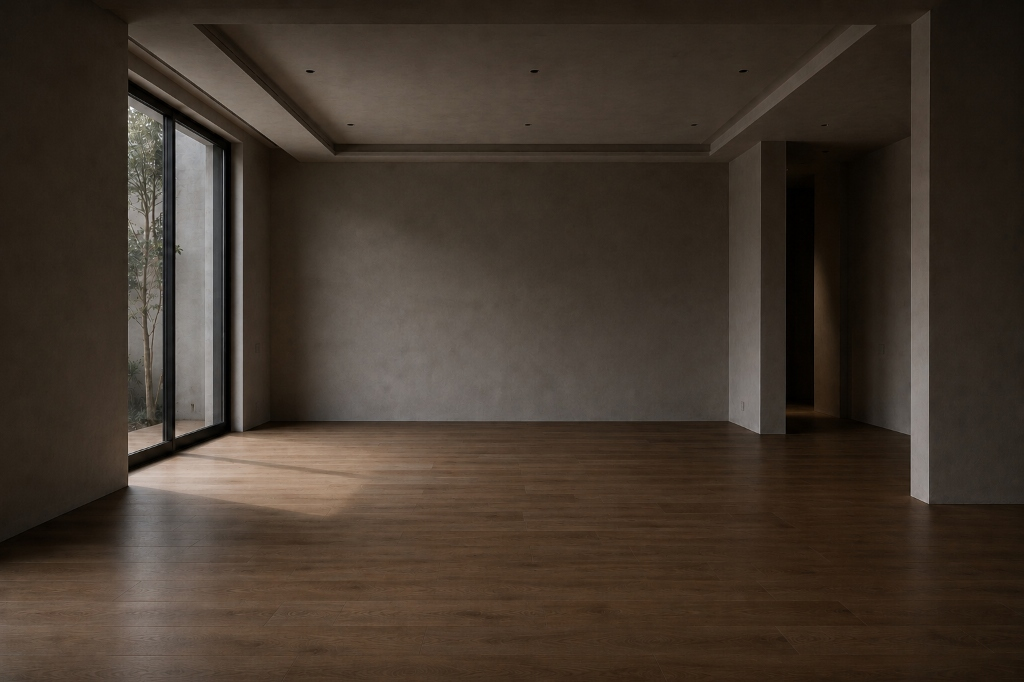
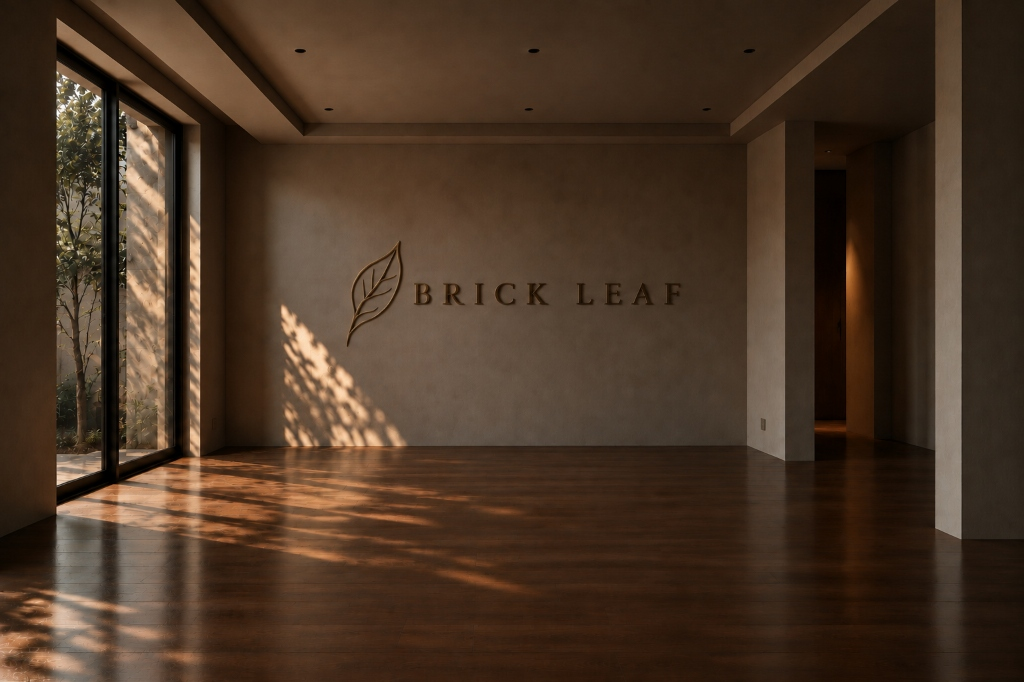
feat(hero): replace scroll animation with all 8 new high-res photorealistic stages

diff --git a/src/components/SignatureScrollHero/constants.js b/src/components/SignatureScrollHero/constants.js
@@ -1,8 +1,8 @@
 /**
  * SignatureScrollHero — Constants
  *
- * 8 complete full-room photographs.
- * The entire homepage IS this scroll transformation.
+ * 8 complete full-room photorealistic transformation stages.
+ * The entire homepage IS this scroll-driven interior transformation.
  * Zero dark gaps. Each image plate fades in over the previous and stays opaque.
  */
 
@@ -10,66 +10,66 @@ export const STAGES = [
   {
     id: 'empty-dark',
     src: '/hero/stage-1-empty-dark.jpg',
-    alt: 'Empty architectural room in dim, moody light',
+    alt: 'Empty architectural shell in moody ambient light with Brickleaf wall emblem',
     tag: '01 / CANVAS',
     title: 'Raw Architectural Shell',
-    desc: 'The room before intention — dim, cold, waiting.',
+    desc: 'The room before intention — dim, quiet, waiting.',
   },
   {
     id: 'empty-bright',
     src: '/hero/stage-2-empty-bright.jpg',
-    alt: 'Empty room with warm natural daylight revealing plaster walls',
+    alt: 'Empty room with warm natural daylight streaming through floor-to-ceiling windows',
     tag: '02 / LIGHT',
-    title: 'Natural Light Reveals',
-    desc: 'Warm daylight enters. Plaster textures emerge.',
+    title: 'Natural Light Emerges',
+    desc: 'Warm sunlight enters through expansive glass, revealing plaster texture.',
   },
   {
     id: 'rug',
     src: '/hero/stage-3-rug.jpg',
-    alt: 'Room with a hand-woven jute area rug on the oak floor',
+    alt: 'Room with a hand-woven organic jute area rug on the oak floor',
     tag: '03 / FOUNDATION',
     title: 'Woven Textile Rug',
-    desc: 'Grounding the floor with organic textile warmth.',
+    desc: 'Hand-woven organic jute rug grounds the oak floor with tactile warmth.',
   },
   {
     id: 'sofa',
     src: '/hero/stage-4-sofa.jpg',
-    alt: 'Room with rug and bouclé modular sofa against the back wall',
+    alt: 'Room with rug and cream modular sectional sofa against the plaster wall',
     tag: '04 / ANCHOR',
-    title: 'Bouclé Sectional Sofa',
-    desc: 'The living composition finds its center.',
+    title: 'Modular Sectional Sofa',
+    desc: 'Cream modular sectional takes its place against the plaster wall.',
   },
   {
     id: 'chairs-table',
     src: '/hero/stage-5-chairs-table.jpg',
-    alt: 'Room with sofa, two lounge armchairs and travertine coffee table',
+    alt: 'Room with sofa, two walnut lounge armchairs, and solid travertine coffee table',
     tag: '05 / FORM',
-    title: 'Armchairs & Table',
-    desc: 'Walnut frames. Travertine stone. The room takes shape.',
+    title: 'Armchairs & Travertine Table',
+    desc: 'Curved lounge armchairs and solid travertine table center the composition.',
   },
   {
-    id: 'decor',
-    src: '/hero/stage-6-decor.jpg',
-    alt: 'Decorated room with olive tree, books, pottery on the coffee table',
-    tag: '06 / LIFE',
-    title: 'Botanicals & Artware',
-    desc: 'Olive tree. Ceramic vases. Dried stems. Books.',
+    id: 'chandelier-off',
+    src: '/hero/stage-6-chandelier-off.jpg',
+    alt: 'Room with sculptural multi-globe brass chandelier descending from recessed ceiling',
+    tag: '06 / FIXTURE',
+    title: 'Sculptural Brass Chandelier',
+    desc: 'Organic multi-globe brass pendant anchors the ceiling architecture.',
   },
   {
-    id: 'pendant-off',
-    src: '/hero/stage-7-pendant-off.jpg',
-    alt: 'Complete room with brass pendant chandelier, light off',
-    tag: '07 / FIXTURE',
-    title: 'Pendant Descends',
-    desc: 'Brass and glass chandelier finds its ceiling mark.',
+    id: 'dusk-cove',
+    src: '/hero/stage-7-dusk-cove.jpg',
+    alt: 'Room at twilight with 2700K warm indirect perimeter ceiling cove lighting',
+    tag: '07 / TWILIGHT',
+    title: 'Perimeter Cove Illumination',
+    desc: '2700K warm architectural cove lighting bathes the ceiling perimeter in amber tones.',
   },
   {
-    id: 'pendant-on',
-    src: '/hero/stage-8-pendant-on.jpg',
-    alt: 'Final room — pendant glowing warm, entire space bathed in golden light',
+    id: 'full-lighting',
+    src: '/hero/stage-8-full-lighting.jpg',
+    alt: 'Final room — glowing chandelier, potted olive tree, ceramic pottery, and botanicals',
     tag: '08 / ATMOSPHERE',
-    title: 'Light Activates',
-    desc: '2700K warmth fills the architectural space.',
+    title: 'Full Radiance & Botanicals',
+    desc: 'Lustrous chandelier activates alongside indoor olive botanicals and curated pottery.',
   },
 ]
 
@@ -82,12 +82,12 @@ export const STAGES = [
 export const REVEALS = [
   null,          // Stage 1: always visible (opacity 1)
   [0.06, 0.18],  // Stage 2: empty bright
-  [0.24, 0.36],  // Stage 3: rug
-  [0.40, 0.52],  // Stage 4: sofa
-  [0.56, 0.66],  // Stage 5: chairs + table
-  [0.70, 0.80],  // Stage 6: decor + plant
-  [0.83, 0.90],  // Stage 7: pendant off
-  [0.92, 1.00],  // Stage 8: pendant on (warm final payoff)
+  [0.22, 0.34],  // Stage 3: rug
+  [0.38, 0.50],  // Stage 4: sofa
+  [0.54, 0.64],  // Stage 5: chairs + table
+  [0.68, 0.77],  // Stage 6: chandelier off
+  [0.80, 0.89],  // Stage 7: dusk & cove glow
+  [0.91, 0.98],  // Stage 8: full lighting & styling
 ]
 
 /**

diff --git a/src/data/galleryData.js b/src/data/galleryData.js
@@ -11,10 +11,10 @@ export const GALLERY_PROJECTS = [
     year: '2025',
     area: '6,400 sq.ft',
     scope: 'Full Architecture, Custom Millwork & Furnishings',
-    coverImage: '/hero/stage-8-pendant-on.jpg',
+    coverImage: '/hero/stage-8-full-lighting.jpg',
     secondaryImages: [
-      '/hero/stage-7-pendant-off.jpg',
-      '/hero/stage-6-decor.jpg',
+      '/hero/stage-6-chandelier-off.jpg',
+      '/hero/stage-7-dusk-cove.jpg',
       '/hero/stage-4-sofa.jpg',
     ],
     tagline: 'Sculptural limestone minimalism grounded by organic walnut millwork.',
@@ -63,7 +63,7 @@ export const GALLERY_PROJECTS = [
     coverImage: '/hero/stage-5-chairs-table.jpg',
     secondaryImages: [
       '/hero/stage-3-rug.jpg',
-      '/hero/stage-8-pendant-on.jpg',
+      '/hero/stage-8-full-lighting.jpg',
     ],
     tagline: 'Japandi harmony combining Wabi-Sabi textures with modern precision.',
     description:
@@ -84,9 +84,9 @@ export const GALLERY_PROJECTS = [
     year: '2025',
     area: '3,800 sq.ft',
     scope: 'Commercial Executive Studio & Client Lounges',
-    coverImage: '/hero/stage-6-decor.jpg',
+    coverImage: '/hero/stage-7-dusk-cove.jpg',
     secondaryImages: [
-      '/hero/stage-7-pendant-off.jpg',
+      '/hero/stage-6-chandelier-off.jpg',
       '/transformations/living-room-after.jpg',
     ],
     tagline: 'Executive hospitality meets tactile residential comfort.',
